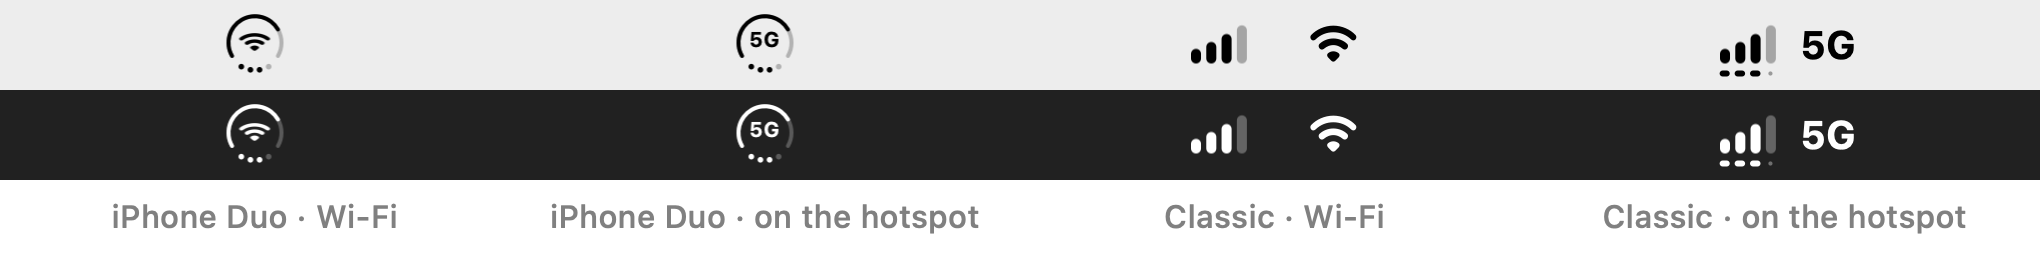
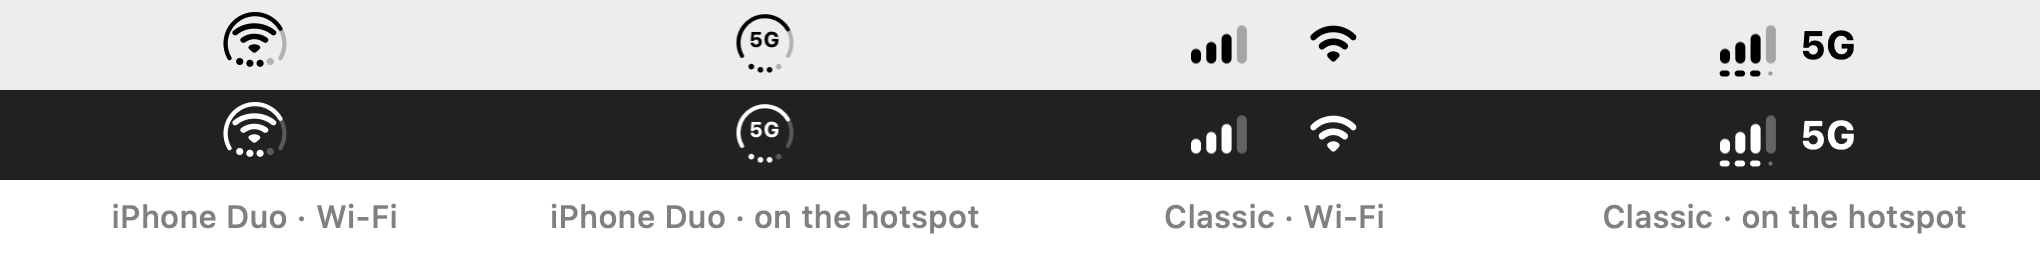
Duo off the hotspot: optically balanced Wi-Fi with signal dots; friendlier README

Changed region(s): [[0.0926, 0.4031, 0.1544, 0.6202], [0.0926, 0.062, 0.1544, 0.2791]]

diff --git a/Plate/HotspotDevice+Model.swift b/Plate/HotspotDevice+Model.swift
@@ -256,6 +256,111 @@ extension HotspotDevice {
         }
     }
 
+    /// iPhone Duo–style glyph built around the Mac's connection symbol (Wi-Fi
+    /// with its signal, or Ethernet), with the iPhone's signal as 4 dots on a
+    /// shallow curve under it and, optionally, its battery as a thin open ring
+    /// laid over it.
+    ///
+    /// Composed optically rather than at system size: a slightly smaller Wi-Fi,
+    /// a clear gap above larger dots, and the whole group (not just the Wi-Fi)
+    /// centered where the other menu bar icons sit.
+    func duoConnectionGlyph(center: (name: String, level: Double?), pointSize: CGFloat, showBattery: Bool,
+                            canvasHeight: CGFloat) -> NSImage? {
+        // Boxier glyphs (Ethernet) read larger than the Wi-Fi fan at the same size.
+        let size = center.name.hasPrefix("wifi") ? pointSize : pointSize * 0.8
+        let config = NSImage.SymbolConfiguration(pointSize: size, weight: .regular)
+        let base = if let level = center.level {
+            NSImage(systemSymbolName: center.name, variableValue: level, accessibilityDescription: nil)
+        } else {
+            NSImage(systemSymbolName: center.name, accessibilityDescription: nil)
+        }
+        guard let symbol = base?.withSymbolConfiguration(config) else { return nil }
+        let ink = Self.inkRect(of: symbol)
+
+        let height = canvasHeight
+        let width = max(symbol.size.width, height)
+        let bars = signalBars
+        let quarters = batteryQuarters
+
+        // Bottom up: dots (clear of the ~1.5pt the menu bar button clips), a gap,
+        // then the symbol's ink.
+        let dot: CGFloat = 2.4
+        let dotsCenterY: CGFloat = 4.9
+        let gap: CGFloat = 2.2
+        let symbolY = dotsCenterY + dot / 2 + gap - ink.minY
+
+        let image = NSImage(size: NSSize(width: width, height: height), flipped: false) { _ in
+            symbol.draw(in: NSRect(x: (width - symbol.size.width) / 2, y: symbolY,
+                                   width: symbol.size.width, height: symbol.size.height))
+
+            if showBattery {
+                // Thin ring over the symbol, open at the bottom where the dots sit,
+                // filling clockwise from the lower left like the Duo ring.
+                let center = NSPoint(x: width / 2, y: height / 2 + 0.5)
+                let radius = height / 2 - 1.2
+                func arc(sweep: CGFloat) -> NSBezierPath {
+                    let path = NSBezierPath()
+                    path.appendArc(withCenter: center, radius: radius, startAngle: 90 - 240,
+                                   endAngle: 90 - 240 - sweep, clockwise: true)
+                    path.lineWidth = 1.4
+                    path.lineCapStyle = .round
+                    return path
+                }
+                NSColor.black.withAlphaComponent(0.25).setStroke()
+                arc(sweep: 240).stroke()
+                if quarters > 0 {
+                    NSColor.black.setStroke()
+                    arc(sweep: 240 * CGFloat(quarters) / 4).stroke()
+                }
+            }
+
+            // Evenly spaced dots on a shallow curve (outer ones a touch higher),
+            // like the dots following the bottom of the Duo ring.
+            let spacing: CGFloat = 3.4
+            for index in 0..<4 {
+                let dx = (CGFloat(index) - 1.5) * spacing
+                let lift: CGFloat = index == 0 || index == 3 ? 0.6 : 0
+                NSColor.black.withAlphaComponent(index < bars ? 1 : 0.25).setFill()
+                NSBezierPath(ovalIn: NSRect(x: width / 2 + dx - dot / 2, y: dotsCenterY + lift - dot / 2,
+                                            width: dot, height: dot)).fill()
+            }
+            return true
+        }
+        image.isTemplate = true
+        image.accessibilityDescription = showBattery
+            ? String(localized: "Signal \(bars) of 4, iPhone battery \(quarters) of 4",
+                     comment: "VoiceOver description of the menu bar icon with the battery marks")
+            : String(localized: "Signal \(bars) of 4",
+                     comment: "VoiceOver description of the menu bar icon")
+        return image
+    }
+
+    /// Bounds of the drawn pixels inside a symbol image (y up), so glyphs can be
+    /// placed by their ink rather than their padded image box.
+    private static func inkRect(of image: NSImage) -> NSRect {
+        let scale: CGFloat = 4
+        let width = Int(image.size.width * scale), height = Int(image.size.height * scale)
+        guard width > 0, height > 0,
+              let rep = NSBitmapImageRep(bitmapDataPlanes: nil, pixelsWide: width, pixelsHigh: height, bitsPerSample: 8,
+                                         samplesPerPixel: 4, hasAlpha: true, isPlanar: false, colorSpaceName: .deviceRGB,
+                                         bytesPerRow: 0, bitsPerPixel: 0) else { return NSRect(origin: .zero, size: image.size) }
+        rep.size = image.size
+        NSGraphicsContext.saveGraphicsState()
+        NSGraphicsContext.current = NSGraphicsContext(bitmapImageRep: rep)
+        image.draw(in: NSRect(origin: .zero, size: image.size))
+        NSGraphicsContext.restoreGraphicsState()
+        var minX = width, maxX = -1, minRow = height, maxRow = -1
+        for y in 0..<height {
+            for x in 0..<width where (rep.colorAt(x: x, y: y)?.alphaComponent ?? 0) > 0.1 {
+                minX = min(minX, x); maxX = max(maxX, x); minRow = min(minRow, y); maxRow = max(maxRow, y)
+            }
+        }
+        guard maxX >= 0 else { return NSRect(origin: .zero, size: image.size) }
+        // Bitmap rows count from the top.
+        return NSRect(x: CGFloat(minX) / scale, y: CGFloat(height - maxRow - 1) / scale,
+                      width: CGFloat(maxX - minX + 1) / scale, height: CGFloat(maxRow - minRow + 1) / scale)
+    }
+
     /// Opacity of bar or dot `index` (0–3) during the searching animation: a
     /// Gaussian glow whose center travels from before the first to past the
     /// last one over a cycle, so every mark fades in and out smoothly and the

diff --git a/Plate/StatusItemController.swift b/Plate/StatusItemController.swift
@@ -65,6 +65,9 @@ final class StatusItemController: NSObject, NSMenuDelegate {
     /// Extra room to the right of the bars for 6pt between them and "5G" (the
     /// button already puts ~5pt between image and title; measured on screen).
     private static let titleSpacing: CGFloat = 0.5
+    /// Wi-Fi size in the iPhone Duo style off the hotspot: a bit under the
+    /// system icon's 15pt so it balances with the signal dots below it.
+    private static let duoWiFiPointSize: CGFloat = 13.5
     /// Diameter of the iPhone Duo–style circle: a bit larger than the system
     /// icons, as big as the menu bar button allows without clipping the dots.
     private static let duoSize: CGFloat = 19
@@ -147,9 +150,9 @@ final class StatusItemController: NSObject, NSMenuDelegate {
                 // (faint dots and no ring when no iPhone is nearby).
                 let device = monitor.device ?? HotspotDevice(id: "", name: "", model: "", networkType: 0,
                                                              signalBars: 0, batteryLevel: 0)
-                button.image = device.duoGlyph(size: Self.duoSize, showBattery: showBattery && monitor.device != nil,
-                                               showNetwork: false, canvasHeight: NSStatusBar.system.thickness,
-                                               centerSymbol: connectionSymbol())
+                button.image = device.duoConnectionGlyph(center: connectionSymbol(), pointSize: Self.duoWiFiPointSize,
+                                                         showBattery: showBattery && monitor.device != nil,
+                                                         canvasHeight: NSStatusBar.system.thickness)
                 button.attributedTitle = NSAttributedString()
                 button.toolTip = connectionDescription()
                 return

diff --git a/docs/render-images.swift b/docs/render-images.swift
@@ -77,7 +77,7 @@ import UniformTypeIdentifiers
       .draw(in: NSRect(x: p.x, y: p.y + dy, width: img.size.width, height: img.size.height)); return img.size.width
   }
   let states: [State] = [
-    State(caption: "iPhone Duo · Wi-Fi") { p, c in drawTemplate(phone.duoGlyph(size: 19, showBattery: true, showNetwork: false, canvasHeight: thickness, centerSymbol: ("wifi", 1)), at: p, c) },
+    State(caption: "iPhone Duo · Wi-Fi") { p, c in drawTemplate(phone.duoConnectionGlyph(center: ("wifi", 1), pointSize: 13.5, showBattery: true, canvasHeight: thickness)!, at: p, c) },
     State(caption: "iPhone Duo · on the hotspot") { p, c in drawTemplate(phone.duoGlyph(size: 19, showBattery: true, showNetwork: true, canvasHeight: thickness), at: p, c) },
     State(caption: "Classic · Wi-Fi") { p, c in
       var w = drawTemplate(tower, at: p, c); w += 17

diff --git a/README.md b/README.md
@@ -5,102 +5,124 @@
 <h1 align="center">Plate</h1>
 
 <p align="center">
-  A macOS menu bar app that replaces the system Wi-Fi menu: it shows Wi-Fi, Ethernet and your iPhone's Instant Hotspot (signal, cellular network type like 5G/LTE, and battery), lists nearby networks and joins them.
+  <b>Your Wi-Fi and your iPhone's signal, side by side in the menu bar.</b><br>
+  A friendlier Wi-Fi menu for your Mac that also shows how your iPhone's hotspot is doing (5G or LTE, signal and battery) without opening anything.
 </p>
 
 <p align="center">
   <img src="docs/menu.png" width="720" alt="The Plate menu in light and dark mode: Wi-Fi switch, current network, the iPhone under Personal Hotspot with its signal and 5G, known and other networks">
 </p>
 
-## In the menu bar
+## Why Plate?
+
+If you tether to your iPhone, you know the drill: open the Wi-Fi menu just to check whether you're on 5G or how many bars you have. Plate puts that right in the menu bar, next to your Wi-Fi, and gives you a cleaner menu to switch networks.
+
+- 📶 **See your iPhone's signal at a glance**, plus 5G/LTE/4G when you're on its hotspot.
+- 🔋 **Keep an eye on your iPhone's battery** (optional).
+- 🛜 **Switch Wi-Fi networks** with one click, just like the system menu.
+- 📱 **Turn on your iPhone's hotspot from your Mac**: click your iPhone and Plate connects for you.
+- 🔌 **Ethernet aware**: shows when you're plugged in, with your IP address.
+- 🌗 Looks at home in light and dark mode, in English and Brazilian Portuguese.
+
+## Two looks to choose from
 
 <p align="center">
   <img src="docs/menubar.png" width="820" alt="Menu bar item in the iPhone Duo and Classic styles, on Wi-Fi and on the iPhone's hotspot, over light and dark menu bars">
 </p>
 
-The item shows the Mac's connection and, when your iPhone is nearby, its cellular signal, in one of two styles picked under *Plate › Menu Bar Style*:
+- **iPhone Duo** (default) borrows the round status icon from iPhone Duo: your Wi-Fi in the middle, your iPhone's signal as the little dots below, and its battery as the ring around it. On the hotspot, the middle shows 5G or LTE instead.
+- **Classic** shows your iPhone's signal bars next to the Wi-Fi icon, like two separate menu bar icons. On the hotspot you see the bars with "5G" beside them.
 
-- **iPhone Duo** (default), after the iPhone Duo's circular status icon: the Mac's connection in the center (Wi-Fi with its signal, Ethernet, or the network type like 5G/LTE while on the iPhone's hotspot), the iPhone's signal in the 4 dots, and its battery in the open ring.
-- **Classic**: the iPhone's signal bars beside the Wi-Fi or Ethernet icon, spaced like separate menu bar items. On the hotspot, the bars with the network type next to them, and the battery as marks under the bars.
+Switch between them under **Plate › Menu Bar Style**.
 
 <p align="center">
-  <img src="docs/searching.gif" width="220" alt="Searching for network animation: a wave across short bars in Classic and across the dots in iPhone Duo">
+  <img src="docs/searching.gif" width="220" alt="Searching animation: a wave across short bars in Classic and across the dots in iPhone Duo">
 </p>
 
-When no iPhone is found, both styles show short faint bars (or faint dots), like an iPhone with no service. While the Mac is on the hotspot, a wave sweeps across them, like the iPhone's "searching for network" animation: in Classic each bar grows to its height in the staircase and shrinks back. The animation runs on Core Animation, so it costs no CPU.
+No iPhone around? Plate shows short, faint bars, just like an iPhone with no service. And if you're on the hotspot while your iPhone is out of reach, it plays the same "searching for network" wave your iPhone does.
 
-## Features
+## Getting started
 
-- **Network menu** in the style of the system Wi-Fi menu: a Wi-Fi switch, the current network, *Personal Hotspot* (your iPhone, with its signal and network type the way its status bar shows them; click to turn its hotspot on and join it), *Known Networks*, *Other Networks* (the rest under *More Networks*), and *Ethernet* with the interface and IP address when wired.
-- **Join networks** with a click; a password prompt appears for new secured ones. Known networks use the password macOS already has.
-- Network names need **Location** access (macOS treats them as location data); the app asks on first launch.
-- **Signal bars** (0–4) and **network type** of the iPhone, updated as the iPhone advertises changes.
-- **iPhone battery** (optional, off by default): the ring in the iPhone Duo style, or a row of 4 marks under the bars in the Classic style (a full quarter is a segment as wide as its bar, an empty one a small faint dot). Works in both automatic and manual modes. No percentage: the iPhone only advertises its battery in quarters (0, 25, 50, 75, 100).
-- **Automatic mode** (default): signal bars always; the network label (5G/LTE) only shows while the Mac is using the iPhone's hotspot.
-- **Manual mode**: pick what shows on the hotspot under *Plate* (signal bars, network type).
-- The iPhone's marketing model name (`iPhone18,1` → *iPhone 17 Pro*). The *Plate* submenu also has **Refresh** (⌘R), and **Quit Plate** (⌘Q) sits at the bottom.
-- **Open at Login** (on by default, toggle in the menu) via `SMAppService`.
-- No Dock icon (`LSUIElement`).
-- Localized in English and Brazilian Portuguese (String Catalog).
+1. **Install**: Plate isn't on the App Store yet (see the FAQ), so build it with Xcode: open `Plate.xcodeproj`, choose the **Plate** scheme and press **Run** (⌘R). For a copy to keep, use **Product › Archive** and drag `Plate.app` to your Applications folder.
+2. **Allow Location** when macOS asks. It's only used to show the names of nearby Wi-Fi networks (see the FAQ for why).
+3. **Look for Plate in the menu bar.** It opens at login from now on; you can turn that off under **Plate › Open at Login**.
+
+**Tip:** to let Plate fully replace the system Wi-Fi icon, go to **System Settings › Control Center › Wi-Fi** and choose **Don't Show in Menu Bar**.
+
+## Using Plate
+
+- **Join a network**: click it. Networks you've used before connect right away; new ones with a 🔒 ask for the password.
+- **Use your iPhone's hotspot**: click your iPhone under **Personal Hotspot**. Plate turns the hotspot on and connects.
+- **Turn Wi-Fi off or on** with the switch at the top.
+- **Show your iPhone's battery**: open the **Plate** menu and tick **iPhone Battery**.
+- **Choose what shows while on the hotspot**: in the **Plate** menu, under **On the Hotspot** (Automatic is a good default).
+
+## FAQ
+
+**Why does Plate ask for my location?**
+macOS treats the names of nearby Wi-Fi networks as location data, so any app that lists them needs Location access. Plate never looks up where you are; it only reads network names, and nothing leaves your Mac.
+
+**My iPhone's battery always seems to be at 75% or 100%.**
+Your iPhone only shares its battery in quarters (25, 50, 75, 100%), so Plate shows it as a level rather than an exact percentage.
+
+**Can Plate tell 5G from 5G+ (standalone)?**
+Not yet: your iPhone just says "5G", without the detail.
+
+**My iPhone doesn't show up.**
+Make sure Personal Hotspot is set up on the iPhone, both devices use the same Apple Account, and Bluetooth and Wi-Fi are on on your Mac. Plate refreshes every 30 seconds; you can also use **Plate › Refresh** (⌘R).
+
+**Why isn't it on the App Store?**
+Plate reads your iPhone's hotspot details the same way the macOS Wi-Fi menu does, through an Apple framework that apps on the App Store aren't allowed to use. That also means a future macOS update could break it.
 
 ## Requirements
 
-- macOS 27 or later.
-- An iPhone with Personal Hotspot, signed in to the same iCloud account, with Bluetooth and Wi-Fi on on the Mac.
+- macOS 27 or later
+- An iPhone with Personal Hotspot, signed in to the same Apple Account
 
-## How it works
+<details>
+<summary><b>For developers</b></summary>
 
-| Data | Source |
+### How it works
+
+| What | Where it comes from |
 |---|---|
-| Network type, signal bars, battery, name and model identifier | `SFRemoteHotspotSession` (Sharing.framework, **private API**), the same source as the macOS Wi-Fi menu |
-| Marketing name and model icon | `UTType` with the `com.apple.device-model-code` tag class (UTIs from macOS CoreTypes) |
+| iPhone's network type, signal, battery and model | `SFRemoteHotspotSession` in Sharing.framework (**private API**), the same source as the macOS Wi-Fi menu |
+| Turning the iPhone's hotspot on | `SFRemoteHotspotSession enableHotspotForDevice:` (private), which returns the hotspot's network and password, joined with CoreWLAN |
+| Marketing name and icon of the iPhone model | `UTType` with the `com.apple.device-model-code` tag class |
 | Wi-Fi state, nearby networks, joining | CoreWLAN (`CWWiFiClient`, `scanForNetworks`, `associate`) |
 | Ethernet and the interface in use | `NWPathMonitor` + `getifaddrs` |
-| Turning the iPhone's hotspot on | `SFRemoteHotspotSession enableHotspotForDevice:` (private), which returns the hotspot's network and password |
-| Whether the Mac is on the hotspot | `NWPathMonitor.isExpensive` (Network, public API, no Location permission needed) |
-| Menu bar item | `NSStatusItem` with the `cellularbars` SF Symbol at 15pt, aligned with the system icons |
+| Whether the Mac is on the hotspot | `NWPathMonitor.isExpensive` |
+| Searching animation | Core Animation over the static glyph, so it costs no CPU |
 
-`networkType` values sent by the iPhone:
+`networkType` values sent by the iPhone: 0 none, 1 1x, 2 GPRS, 3 EDGE, 4 3G, 5 H, 6 4G, 7 LTE, 8 5G.
 
-| Value | Network |
-|---|---|
-| 0 | — |
-| 1 | 1x |
-| 2 | GPRS |
-| 3 | EDGE |
-| 4 | 3G |
-| 5 | H |
-| 6 | 4G |
-| 7 | LTE |
-| 8 | 5G |
+The iPhone only reports when its Bluetooth advertisement changes, so Plate restarts the search every 30 seconds. Menu updates are delivered in the run loop's common modes, since an open menu doesn't get `DispatchQueue.main` work until it closes.
 
-### Limitations
-
-- **Private API**: it can't ship on the Mac App Store and may break with macOS updates.
-- **5G SA vs. NSA**: the iPhone only advertises "5G" without telling SA from NSA, so "5G+" can't be shown.
-- Updates depend on the iPhone's BLE advertisement; the app restarts the search every 30 seconds to force fresh data.
-
-## Project layout
+### Project layout
 
 ```
 Plate/
-├── PlateApp.swift            # App + AppDelegate (no windows)
-├── StatusItemController.swift  # NSStatusItem, menu and display options
+├── PlateApp.swift              # App + AppDelegate (no windows)
+├── StatusItemController.swift  # Menu bar item, menu and options
 ├── NetworkMonitor.swift        # Wi-Fi (CoreWLAN), Ethernet, Location, scanning and joining
-├── NetworkMenuViews.swift      # Custom menu rows (SwiftUI): Wi-Fi switch, network rows, cellular status
-├── HotspotDevice+Model.swift   # Marketing name, icon, and the iPhone Duo / Classic glyphs
+├── HotspotMonitor.swift        # iPhone hotspot data (Sharing.framework)
+├── HotspotDevice+Model.swift   # Model names and the iPhone Duo / Classic glyphs
+├── NetworkMenuViews.swift      # Custom menu rows (SwiftUI)
+├── MenuRowHostView.swift       # Native menu highlight for the custom rows
+├── SearchAnimationView.swift   # "Searching for network" animation
 ├── LaunchAtLogin.swift         # Open at Login (SMAppService)
-├── SearchAnimationView.swift   # "Searching for network" animation (Core Animation)
-├── HotspotMonitor.swift        # SFRemoteHotspotSession + NWPathMonitor
-├── Localizable.xcstrings       # String Catalog (en, pt-BR)
-└── Plate Icon.icon             # App icon (Icon Composer: Duo circle, with a Dark Background group)
+├── MainRunLoop.swift           # Main-thread delivery that works while a menu is open
+├── Localizable.xcstrings       # English and Brazilian Portuguese
+└── Plate Icon.icon             # App icon (Icon Composer)
 docs/                           # README images and the script that renders them
 ```
 
-## Building
-
-Open `Plate.xcodeproj` in Xcode and run the **Plate** scheme, or:
+### Building
 
 ```bash
 xcodebuild -project Plate.xcodeproj -scheme Plate -configuration Release build
 ```
+
+The README images are rendered with the app's own drawing code; see `docs/render-images.swift` to regenerate them.
+
+</details>
